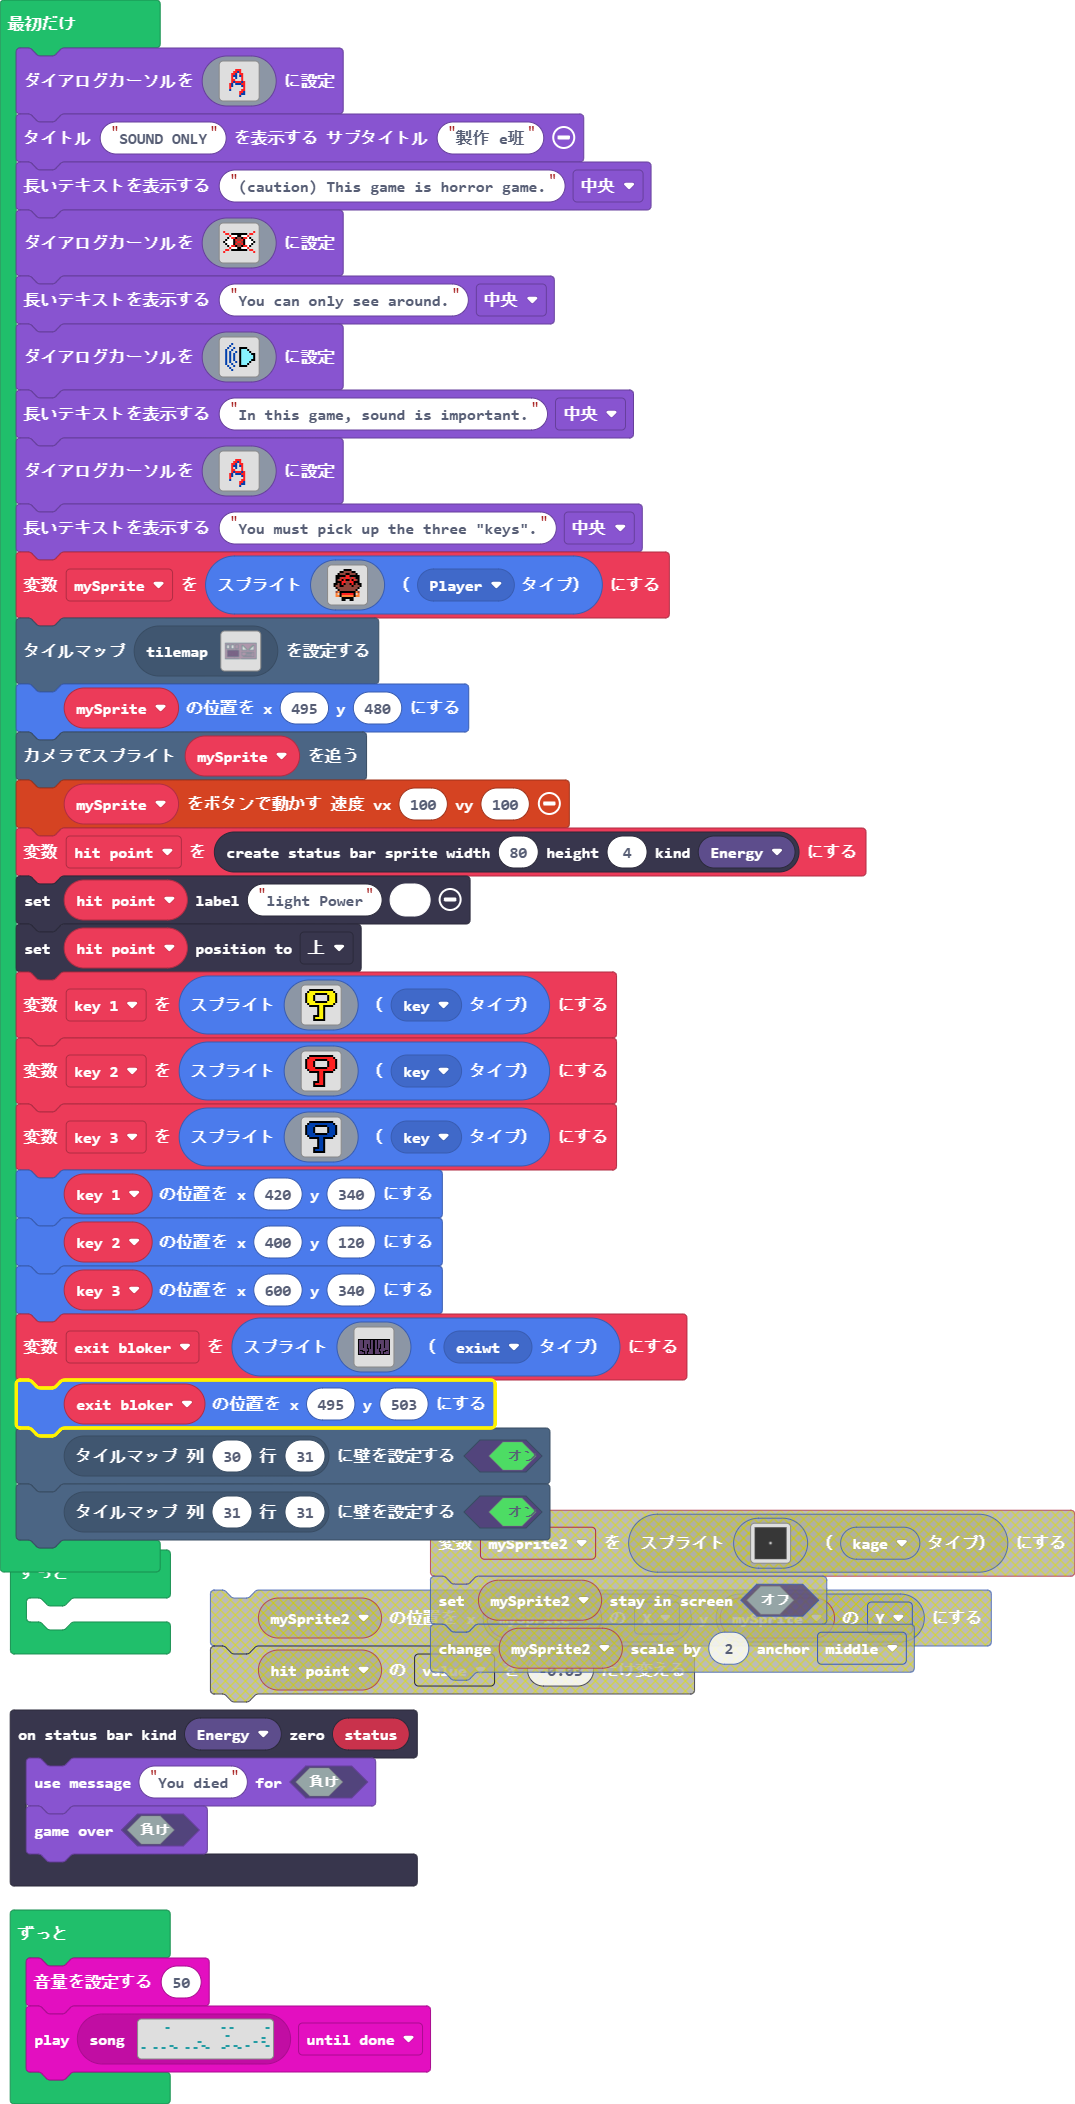
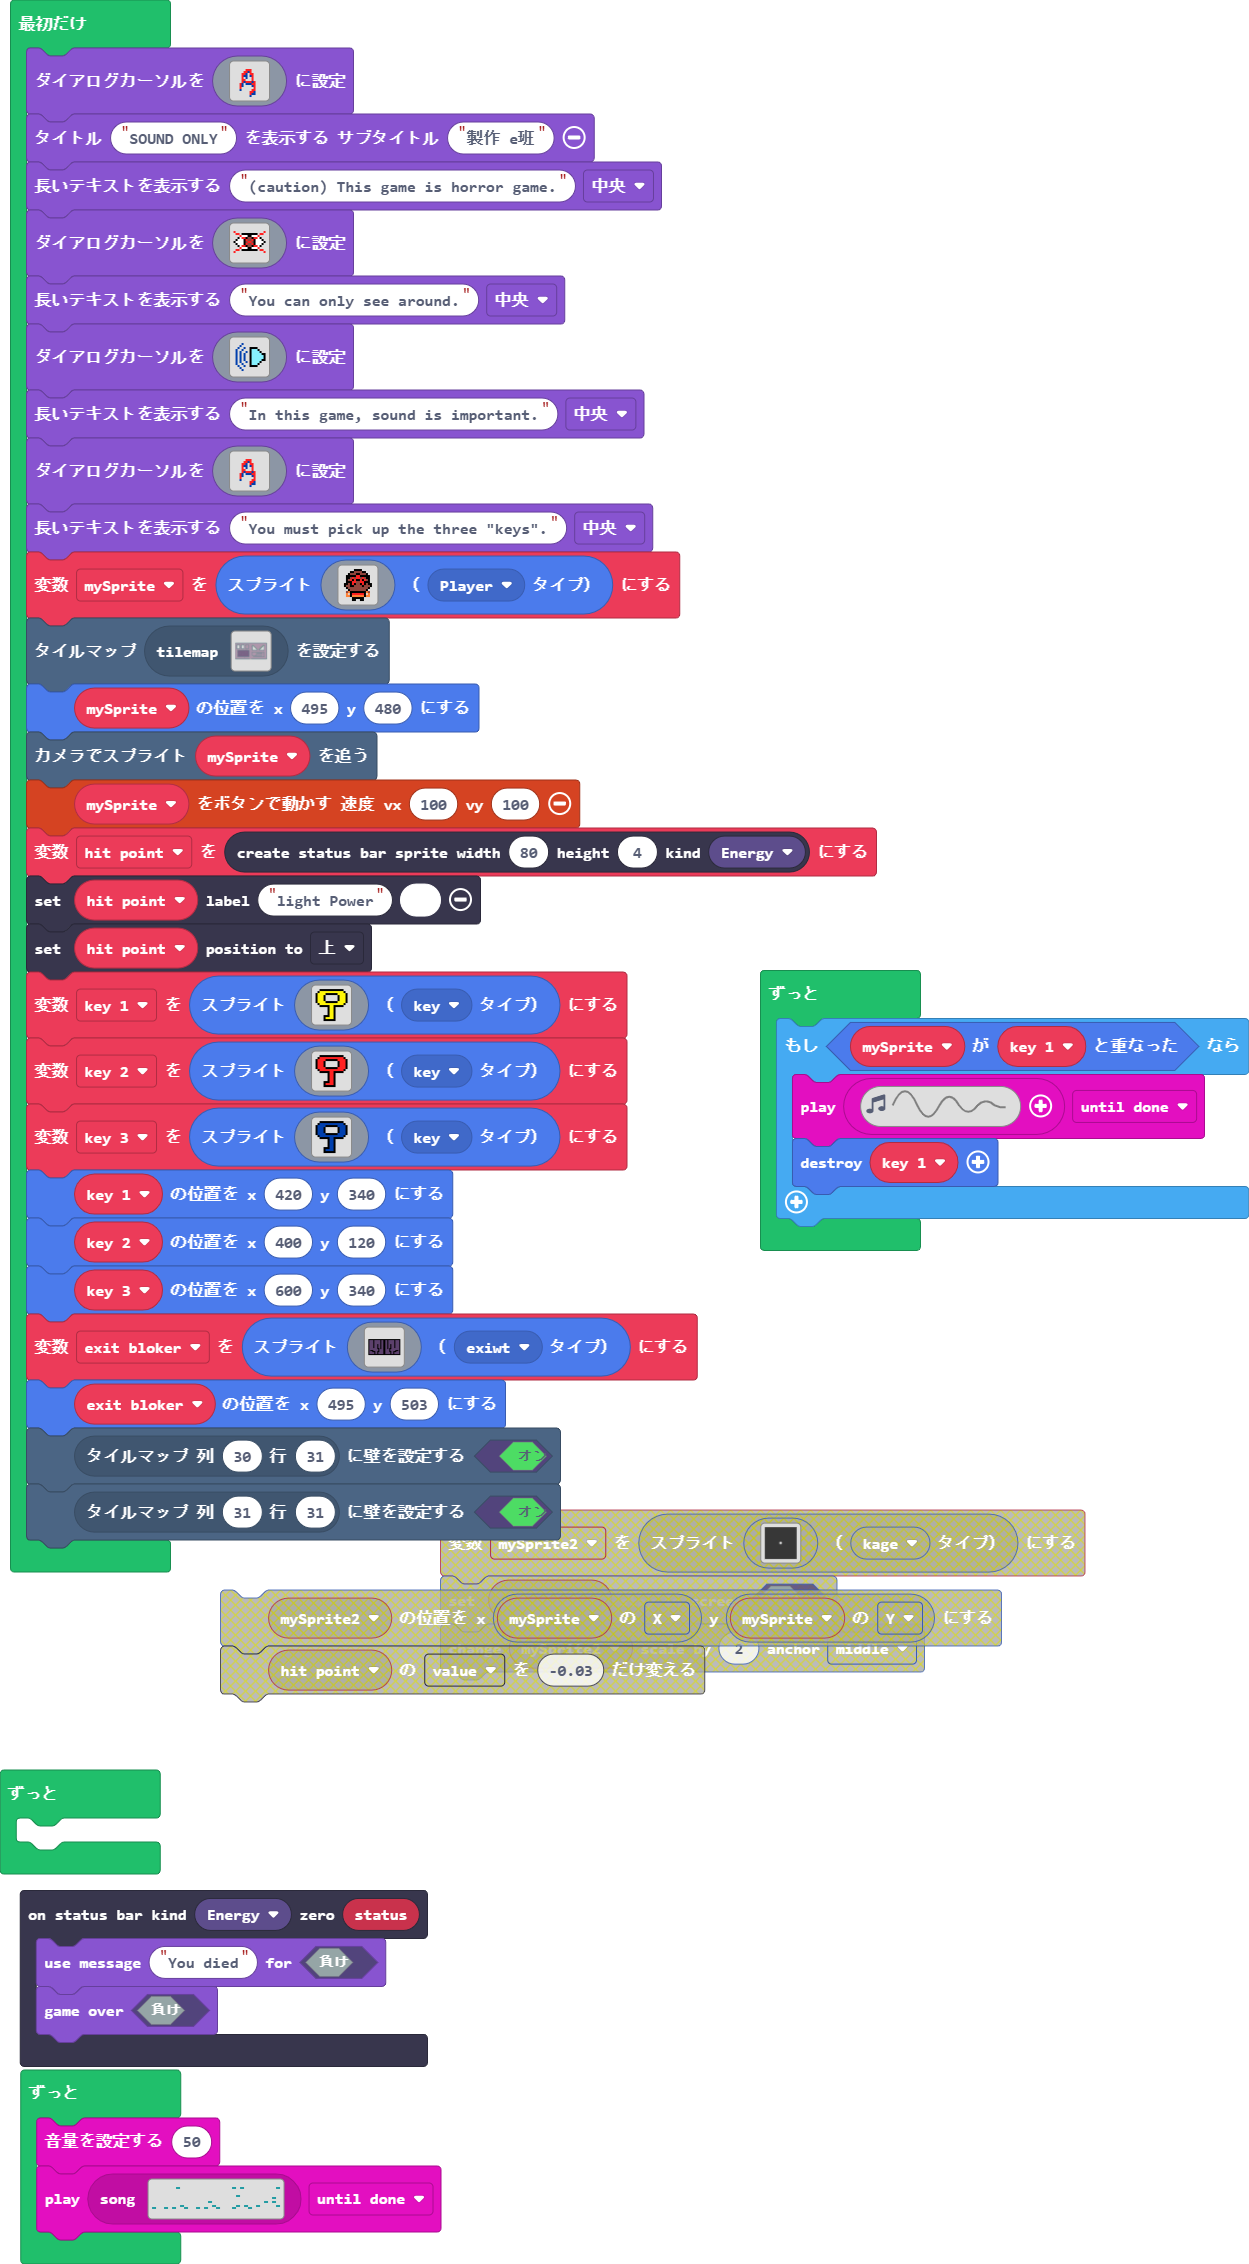
更新 main.blocks, main.ts

diff --git a/main.ts b/main.ts
@@ -122,6 +122,12 @@ exit_bloker.setPosition(495, 503)
 tiles.setWallAt(tiles.getTileLocation(30, 31), true)
 tiles.setWallAt(tiles.getTileLocation(31, 31), true)
 forever(function () {
+    if (mySprite.overlapsWith(key_1)) {
+        music.play(music.createSoundEffect(WaveShape.Sine, 1069, 2731, 255, 0, 100, SoundExpressionEffect.Vibrato, InterpolationCurve.Curve), music.PlaybackMode.UntilDone)
+        sprites.destroy(key_1)
+    }
+})
+forever(function () {
 	
 })
 forever(function () {
